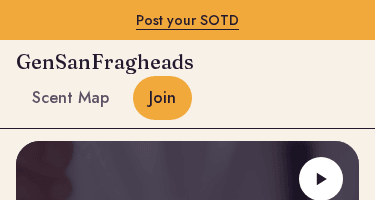
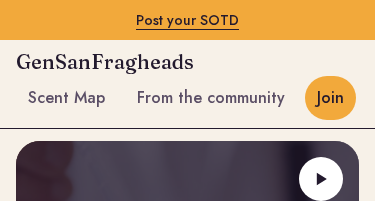
Add From the community to the menu when community posts exist
The header and footer menus now list From the community after Scent Map,
and the header scroll-spies on it. Both are built from hasCommunityPosts,
the same rule that hides the section, so an empty community-posts.json
drops the link at build time.

nav and homeSectionIds move to src/lib/nav.ts because they now depend on
data.ts, which imports site.ts.

Mobile menu links use px-3 and no-wrap labels so all three fit on one
line at 375px and wrap as whole links on narrower screens.

Retake the header screenshots and update the README walkthrough.

diff --git a/src/components/site-header.tsx b/src/components/site-header.tsx
@@ -4,7 +4,8 @@ import Link from "next/link";
 import type { MouseEvent } from "react";
 import { usePathname } from "next/navigation";
 import { useActiveSection } from "@/hooks/use-active-section";
-import { homeSectionIds, nav, site } from "@/lib/site";
+import { homeSectionIds, nav } from "@/lib/nav";
+import { site } from "@/lib/site";
 
 // Module-level so the hook gets the same array on every render.
 const noSectionIds: string[] = [];
@@ -43,7 +44,7 @@ export function SiteHeader() {
           {site.name}
         </Link>
         <nav aria-label="Main">
-          <ul className="flex items-center gap-x-2 text-base font-medium">
+          <ul className="flex flex-wrap items-center gap-x-2 text-base font-medium">
             {nav.map((item) => {
               const current = active === item.sectionId;
               return (
@@ -51,7 +52,7 @@ export function SiteHeader() {
                   <a
                     href={item.href}
                     aria-current={current ? "location" : undefined}
-                    className={`inline-flex min-h-11 items-center rounded-control px-4 transition-ui ${
+                    className={`inline-flex min-h-11 items-center rounded-control px-3 whitespace-nowrap transition-ui sm:px-4 ${
                       current ? "bg-foreground text-background" : "text-muted hover:bg-subtle hover:text-foreground"
                     }`}
                   >
@@ -61,7 +62,7 @@ export function SiteHeader() {
               );
             })}
             <li>
-              <a href={site.subredditUrl} className="inline-flex min-h-11 items-center rounded-control bg-accent px-4 text-ink transition-ui motion-lift hover:bg-accent-bright">
+              <a href={site.subredditUrl} className="inline-flex min-h-11 items-center rounded-control bg-accent px-3 whitespace-nowrap text-ink transition-ui motion-lift hover:bg-accent-bright sm:px-4">
                 Join
               </a>
             </li>

diff --git a/src/lib/nav.ts b/src/lib/nav.ts
@@ -1,0 +1,16 @@
+// Separate from site.ts because it depends on data.ts, which imports site.ts.
+import { hasCommunityPosts } from "@/lib/data";
+import { sectionHref, sections } from "@/lib/site";
+
+// A section is listed only when it renders, so the nav never links to a missing anchor.
+const homeSections = hasCommunityPosts ? [sections.scentMap, sections.community] : [sections.scentMap];
+
+/** Ids of the sections on the home page, in scroll order. */
+export const homeSectionIds = homeSections.map((section) => section.id);
+
+/** Nav order: home sections in scroll order. Each item scroll-spies on the home page via its `sectionId`. */
+export const nav = homeSections.map((section) => ({
+  label: section.label,
+  href: sectionHref(section.id),
+  sectionId: section.id,
+}));

diff --git a/src/lib/site.ts b/src/lib/site.ts
@@ -35,14 +35,6 @@ export function sectionHref(id: string) {
   return `/#${id}`;
 }
 
-/** Ids of the sections on the home page, in scroll order. */
-export const homeSectionIds = [sections.scentMap.id];
-
-/** Nav order: home sections in scroll order. Each item scroll-spies on the home page via its `sectionId`. */
-export const nav = [
-  { label: sections.scentMap.label, href: sectionHref(sections.scentMap.id), sectionId: sections.scentMap.id },
-];
-
 /** Body text pre-filled into new subreddit posts, so submissions arrive in a consistent shape. */
 export const postTemplates = {
   spot: "Name:\nLocation or where to order:\nBrands carried:\nTesters available?\nPrice range:",

diff --git a/src/components/community-section.tsx b/src/components/community-section.tsx
@@ -1,11 +1,11 @@
 import { CommunityPosts } from "@/components/community-posts";
 import { PageSection } from "@/components/page-section";
-import { communityPosts } from "@/lib/data";
+import { communityPosts, hasCommunityPosts } from "@/lib/data";
 import { sections, site } from "@/lib/site";
 
 /** Hand-picked subreddit posts. Hidden until community-posts.json has entries. */
 export function CommunitySection() {
-  if (communityPosts.length === 0) return null;
+  if (!hasCommunityPosts) return null;
   return (
     <PageSection
       band

diff --git a/src/lib/data.ts b/src/lib/data.ts
@@ -48,6 +48,9 @@ export type CommunityPost = {
 
 export const communityPosts = communityPostsJson as CommunityPost[];
 
+/** The community section and its nav link are hidden while community-posts.json is empty. */
+export const hasCommunityPosts = communityPosts.length > 0;
+
 for (const post of communityPosts) {
   if (!post.url?.startsWith(`${site.subredditUrl}/comments/`)) {
     throw new Error(

diff --git a/src/components/site-footer.tsx b/src/components/site-footer.tsx
@@ -1,4 +1,5 @@
-import { nav, site } from "@/lib/site";
+import { nav } from "@/lib/nav";
+import { site } from "@/lib/site";
 
 export function SiteFooter() {
   return (

diff --git a/README.md b/README.md
@@ -10,13 +10,13 @@ The site is one scrolling page. This tour follows it from top to bottom. Desktop
 
 ### Header and menu
 
-A saffron strip at the very top links to the subreddit to post your Scent of the Day. Below it, the header has the site name (back to the top of the page), a **Scent Map** link that jumps to the map, and a **Join** button that opens the subreddit. On desktop the header stays pinned while you scroll, and **Scent Map** is highlighted while the map section is on screen.
+A saffron strip at the very top links to the subreddit to post your Scent of the Day. Below it, the header has the site name (back to the top of the page), **Scent Map** and **From the community** links that jump to those sections, and a **Join** button that opens the subreddit. **From the community** is only listed while there are community posts to show. On desktop the header stays pinned while you scroll, and each menu link is highlighted while its section is on screen.
 
-![Desktop header: "Post your Scent of the Day" strip, site name, Scent Map link and Join button](docs/screenshots/header-desktop.png)
+![Desktop header: "Post your Scent of the Day" strip, site name, Scent Map and From the community links, and Join button](docs/screenshots/header-desktop.png)
 
 On a phone the strip reads "Post your SOTD", the menu wraps under the site name, and the header scrolls away with the page.
 
-<img src="docs/screenshots/header-mobile.png" width="375" alt="Phone header: SOTD strip, site name, and the Scent Map and Join links on a second line">
+<img src="docs/screenshots/header-mobile.png" width="375" alt="Phone header: SOTD strip, site name, and the Scent Map, From the community and Join links on a second line">
 
 ### Hero
 
@@ -100,4 +100,4 @@ Field types and notes for these files are in `src/lib/data.ts`, which also check
 - A spot needs `name`, `kind` (`counter`, `decant` or `local-maker`) and `location`. Add `coords` as `[latitude, longitude]` to pin it on the map (right-click a place on openstreetmap.org and choose Show address to get them); leave it out for online-only sellers. `notes` and `link` are optional.
 - A community post needs `title` and `url`. Open the post in a browser and copy the address bar; `/s/` share links fail the build. Posts are embedded by Reddit's script, with a plain link as fallback.
 
-Site name, subreddit link and the menu entries are in `src/lib/site.ts`.
+Site name, subreddit link and the section labels are in `src/lib/site.ts`. The menu order is in `src/lib/nav.ts`.
